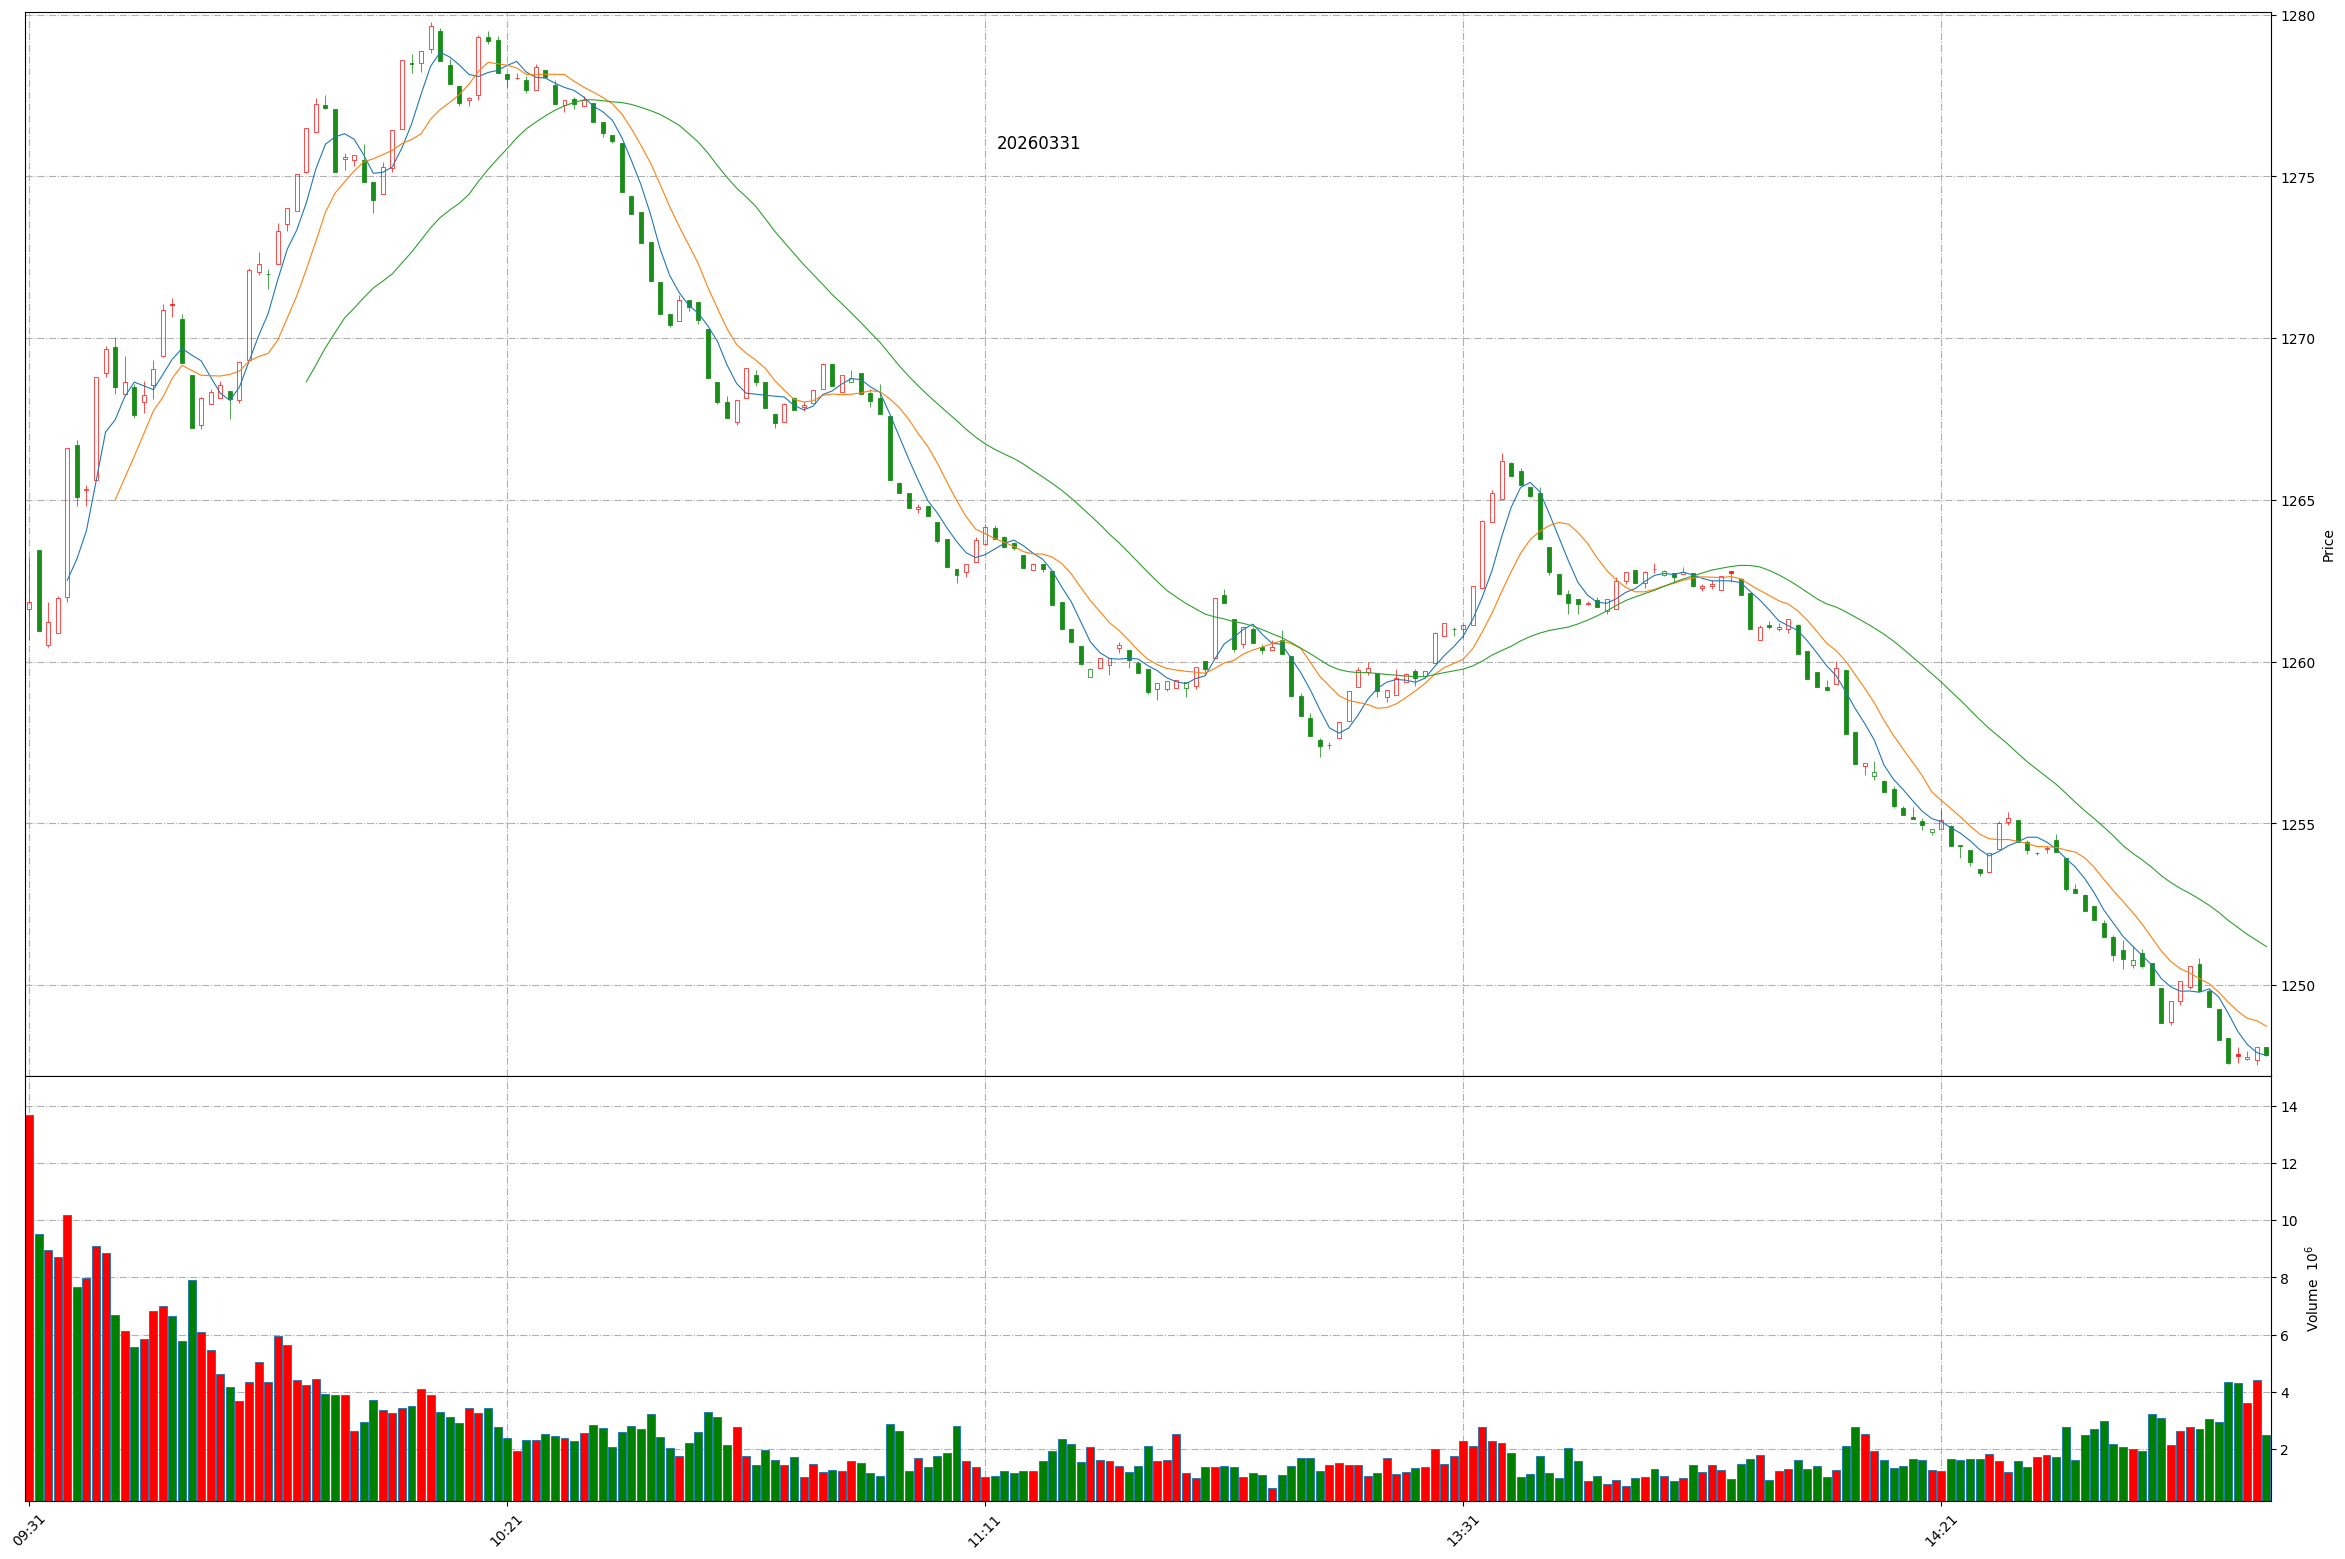
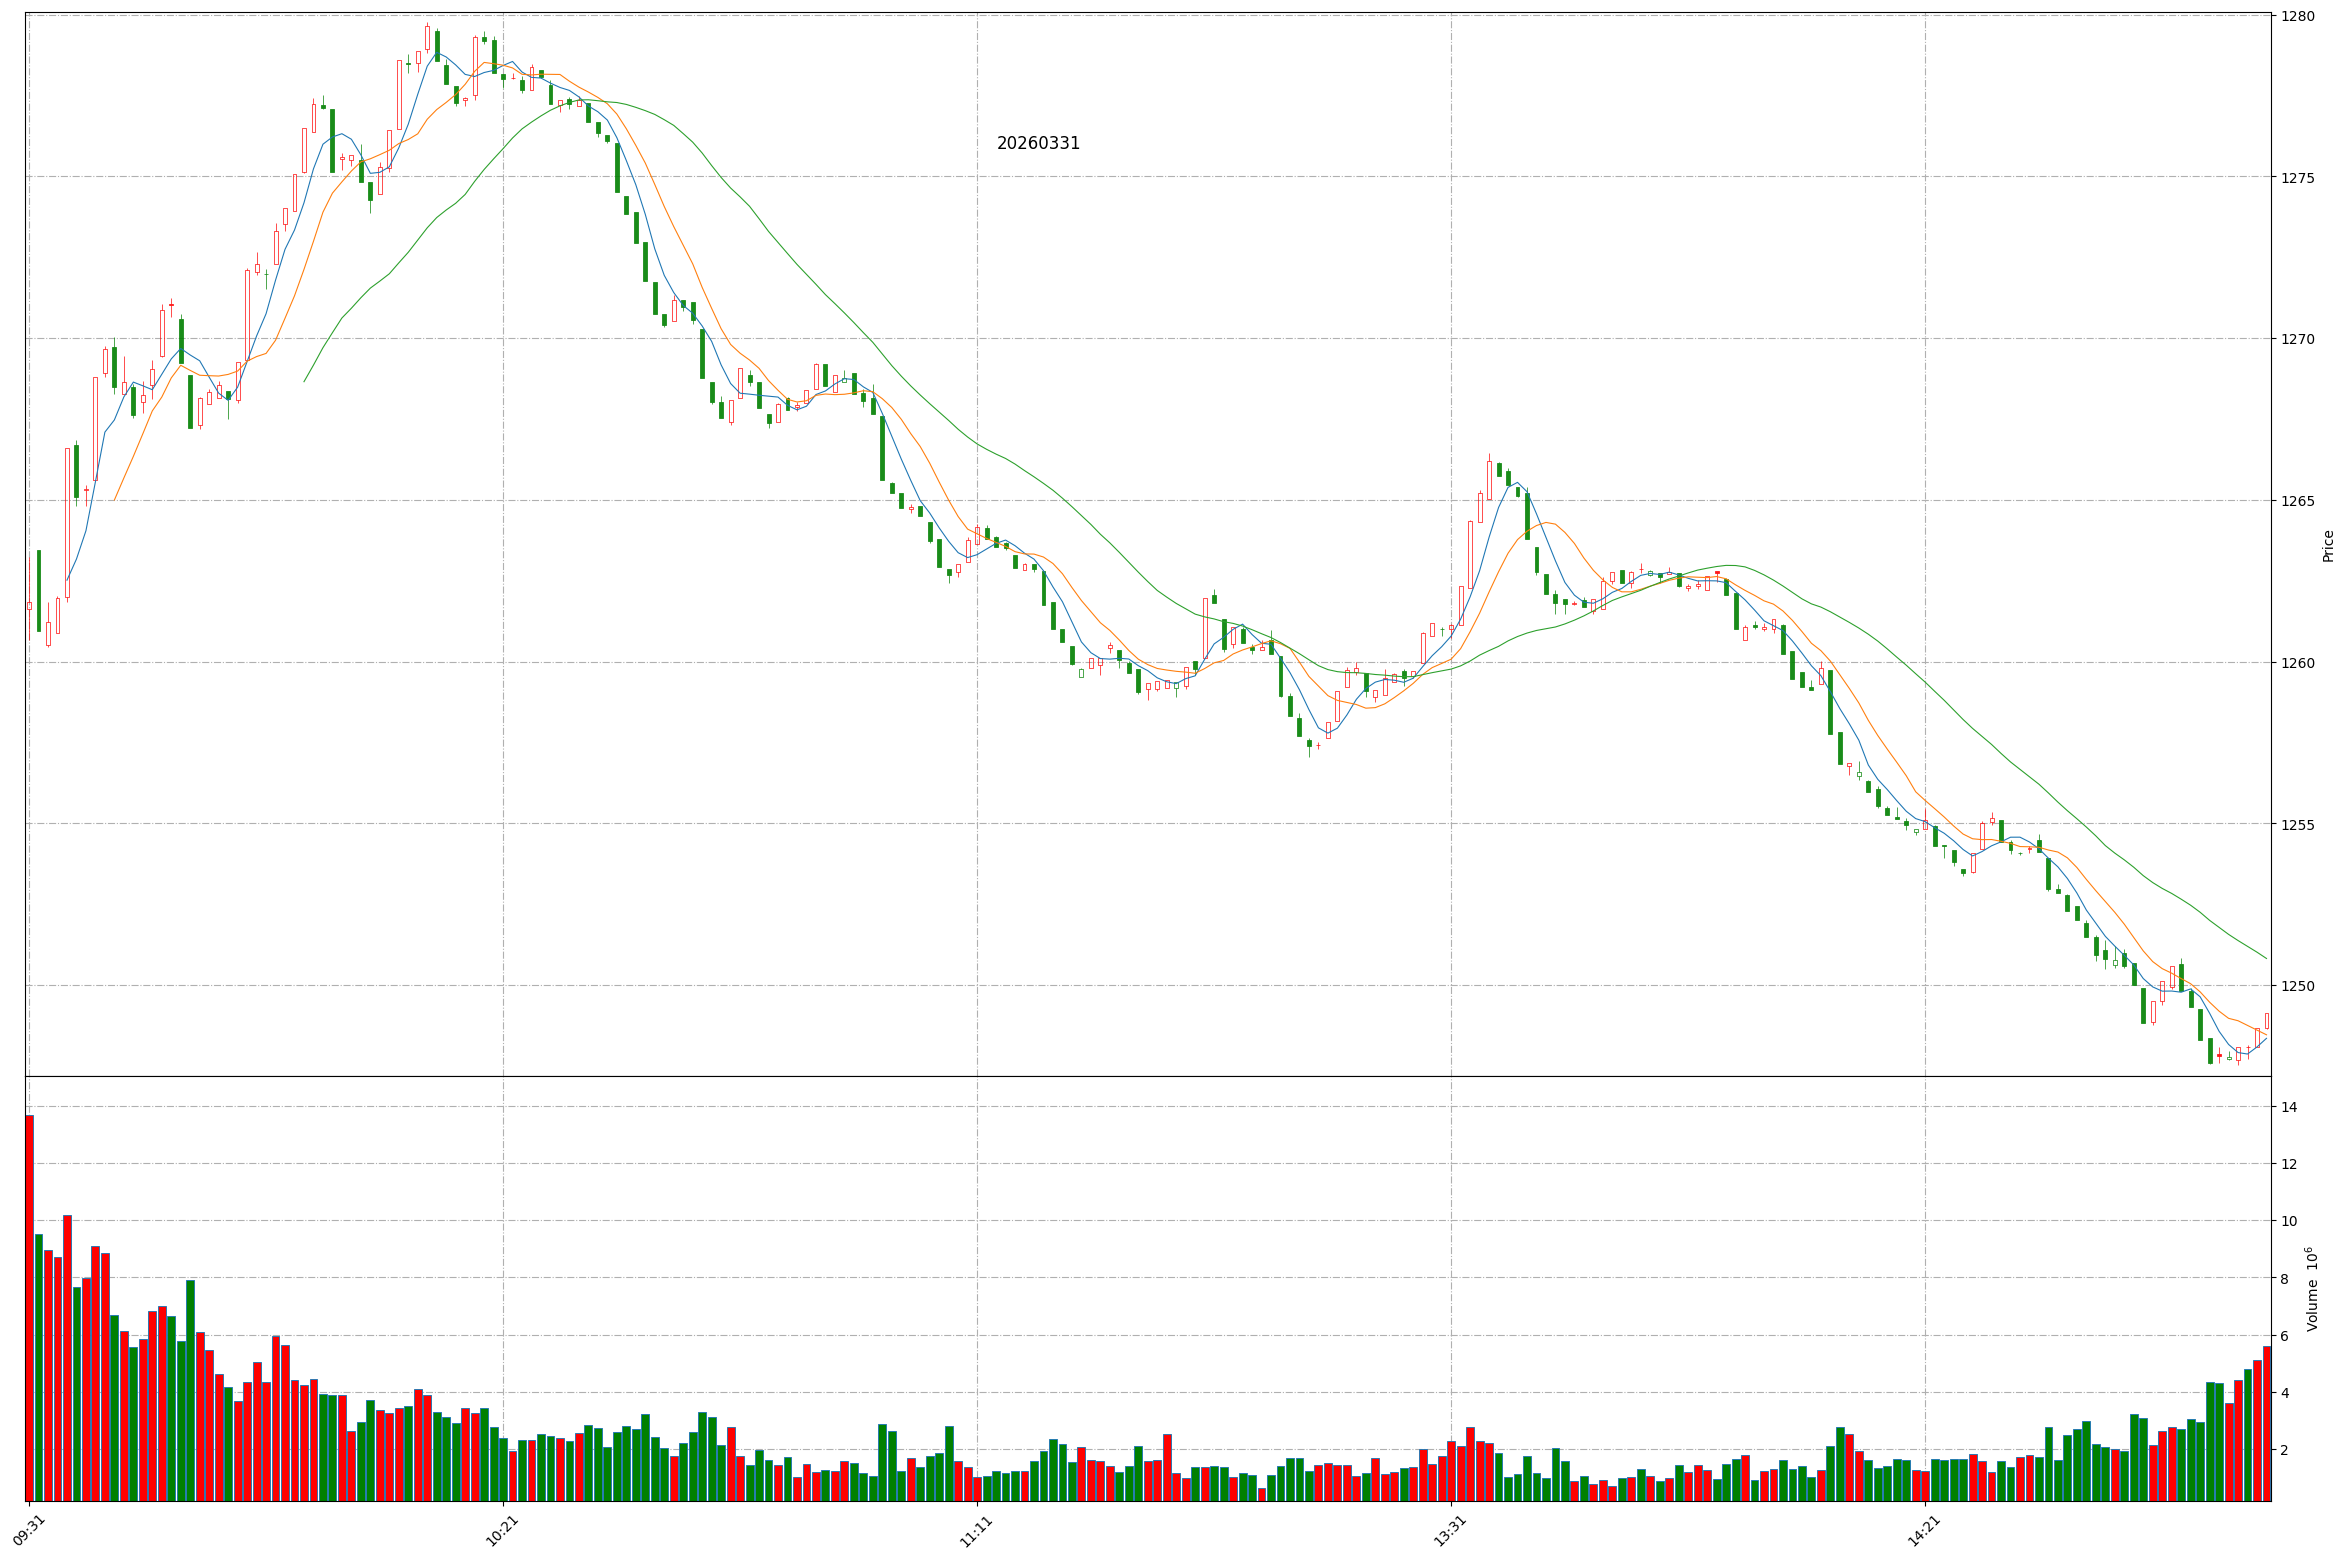
Github action update at 2026-03-31 14:57:10.

diff --git a/README.md b/README.md
@@ -1,11 +1,11 @@
 
 # Daily-A-share-market-quotes 每日 A 股指数（5min 更新）- 20260331
 
-### 上证指数 20260331 14:54
+### 上证指数 20260331 14:57
 ![](./fig/2026/3/20260331-sh000001.png)
 
-### 深证成指 20260331 14:54
+### 深证成指 20260331 14:57
 ![](./fig/2026/3/20260331-sz399001.png)
 
-### 北证50 20260331 14:54
+### 北证50 20260331 14:57
 ![](./fig/2026/3/20260331-bj899050.png)
